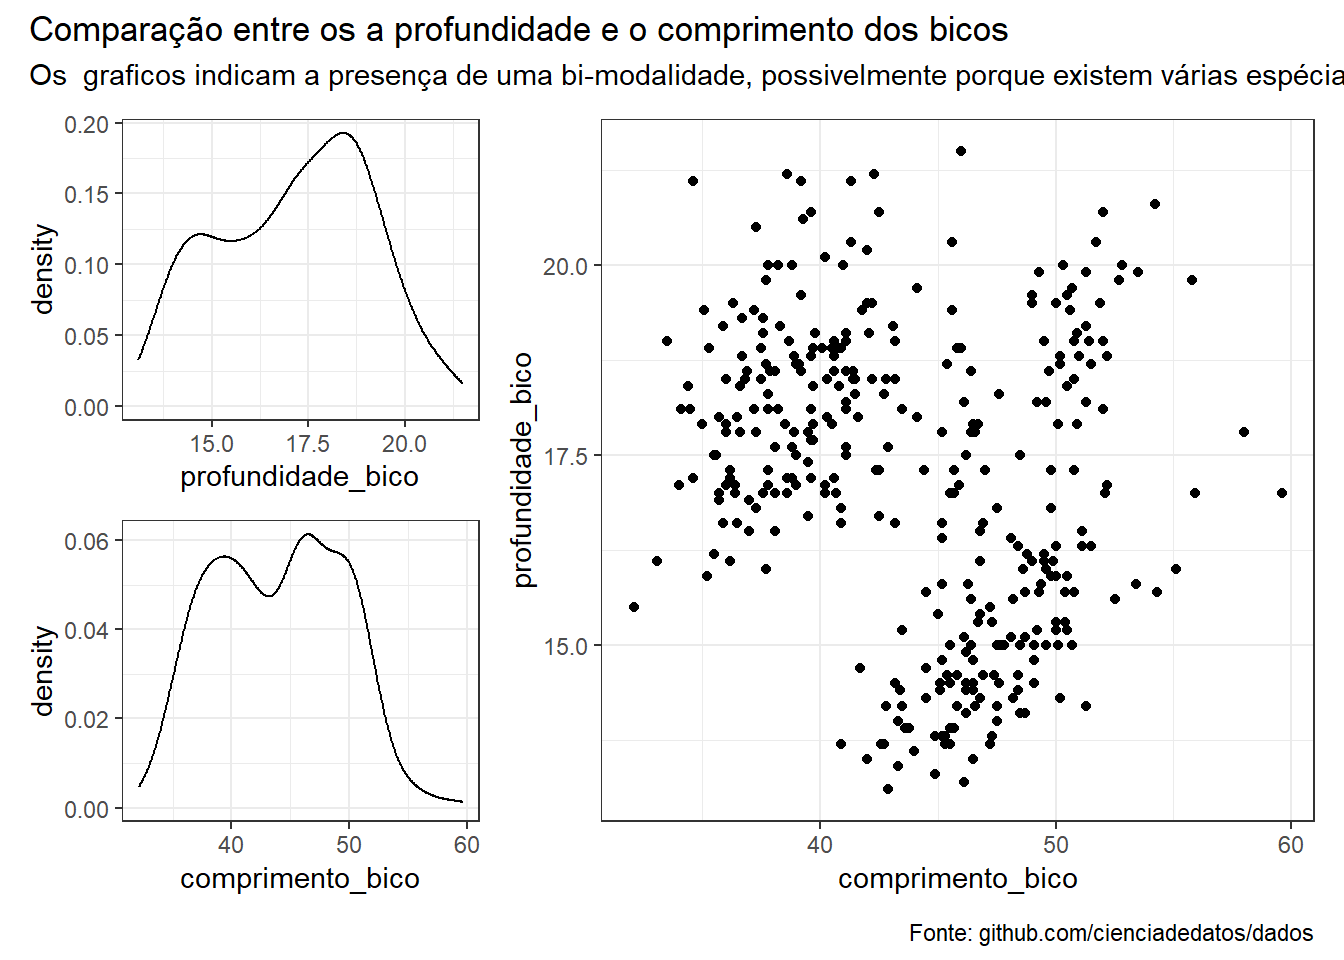
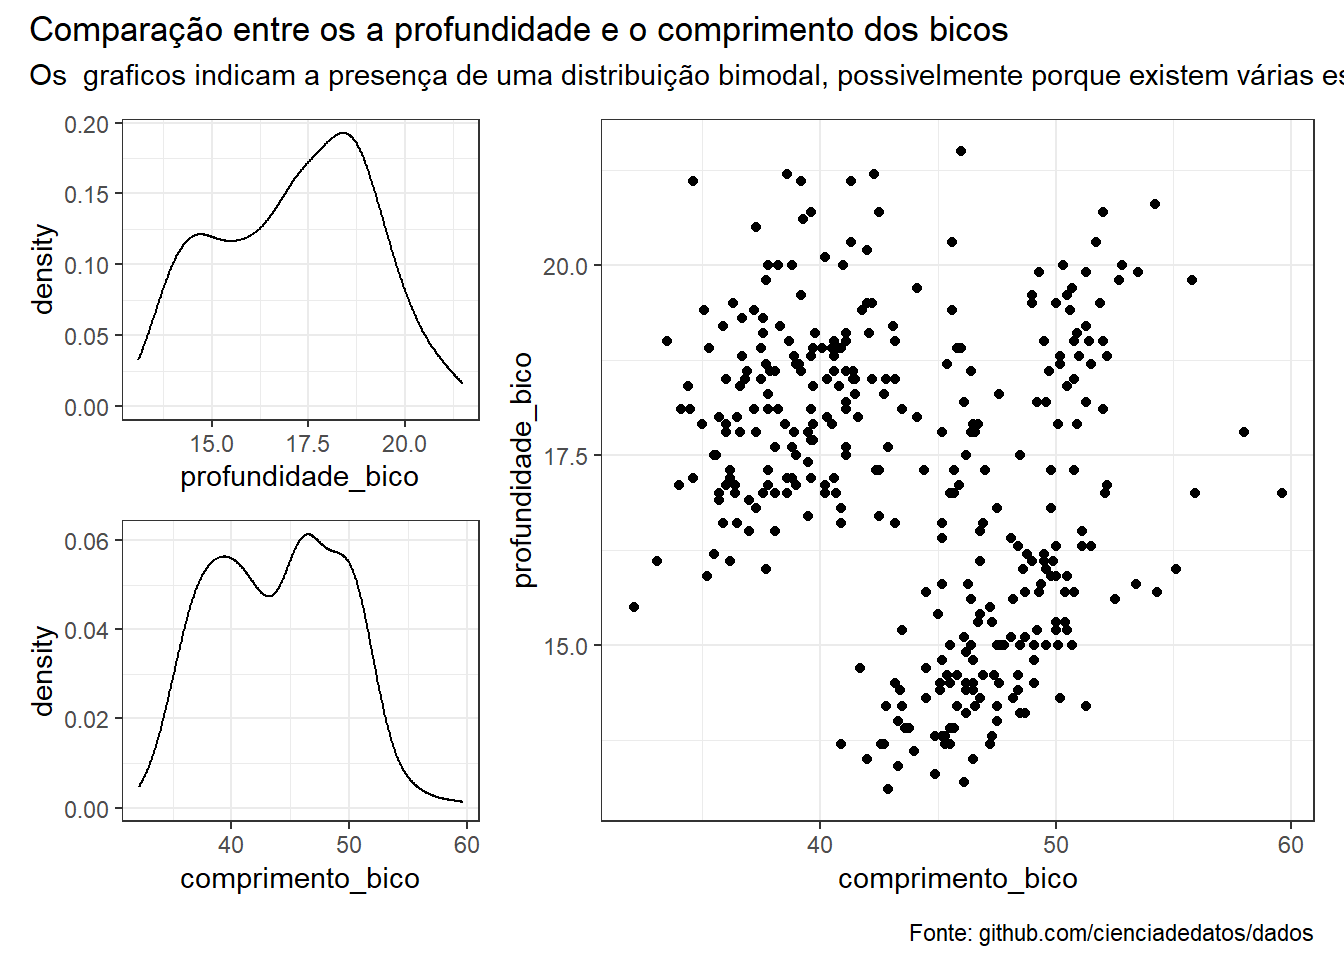
alterando typos

Changed region(s): [[0.4062, 0.0625, 1.0, 0.0938]]

diff --git a/content/posts/2021-05-19-patchwork.html b/content/posts/2021-05-19-patchwork.html
@@ -12,7 +12,7 @@ draft: false
 <script src="/rmarkdown-libs/header-attrs/header-attrs.js"></script>
 
 
-<p>Você provavelmente já sabe que o pacote <code>ggplot2</code> é uma baita ferramenta para construção de gráficos, mas você sabia que também é possível construir composições com vários gráficos sem nenhuma dificuldade? Essa é exatamente a função do pacote <code>patchwork</code> e hoje nós vamos conversar um pouco sobre essa que é uma das expressões mais importantes do pacote <code>ggplot2</code>.</p>
+<p>Você provavelmente já sabe que o pacote <code>ggplot2</code> é uma super ferramenta para construção de gráficos, mas você sabia que também é possível construir composições com vários gráficos sem nenhuma dificuldade? Essa é exatamente a função do pacote <code>patchwork</code> e hoje nós vamos conversar um pouco sobre essa que é uma das expressões mais importantes do pacote <code>ggplot2</code>.</p>
 <div id="ideia-geral" class="section level1">
 <h1>Ideia geral</h1>
 <p>O pacote <code>patchwork</code> parte de vários objetos <code>ggplot2</code>, nomeados por exemplo como <code>g1</code>, <code>g2</code>, <code>g3</code>, e nos fornece ferramentas para declarar de que forma esses gráficos serão posicionados em uma figura maior. Veja o exemplo abaixo em que colocamos três figuras lado a lado:</p>
@@ -39,55 +39,31 @@ g3 &lt;- dados::pinguins %&gt;%
 # aqui usamos esse operador &#39;+&#39; (que também poderia ser `|`), que fica disponível
 # quando carregamos o pacote 
 g1 + g2 + g3</code></pre>
-<pre><code>## Warning: Removed 2 rows containing missing values (geom_point).</code></pre>
-<pre><code>## Warning: Removed 2 rows containing non-finite values (stat_density).
-
-## Warning: Removed 2 rows containing non-finite values (stat_density).</code></pre>
 <p><img src="/posts/2021-05-19-patchwork_files/figure-html/unnamed-chunk-1-1.png" width="672" /></p>
 <p>Nesse nosso exemplo, utilizamos o operador <code>+</code> para colocar os gráficos lado a lado, ou seja, para criar colunas novas. Se o nosso objetivo fosse criar linhas, precisaríamos usar o operador <code>/</code>, que normalmente representa divisões no contexto aritmético. Essa escolha por parte de quem desenvolveu o pacote se dá pelo fato dos divisores (o que vem à esquerda do operador de divisão) serem posicionados na parte inferior das frações. Veja o exemplo abaixo:</p>
 <pre class="r"><code># codigo usando o pacote patchwork
 # aqui usamos esse operador &#39;/&#39;, que fica disponível
 # quando carregamos o pacote
 g1 / g2 / g3</code></pre>
-<pre><code>## Warning: Removed 2 rows containing missing values (geom_point).</code></pre>
-<pre><code>## Warning: Removed 2 rows containing non-finite values (stat_density).
-
-## Warning: Removed 2 rows containing non-finite values (stat_density).</code></pre>
 <p><img src="/posts/2021-05-19-patchwork_files/figure-html/unnamed-chunk-2-1.png" width="672" /></p>
 <p>O verdadeiro poder do pacote <code>patchwork</code> se revela quando misturamos essas duas operações e <code>(</code>s <code>)</code>s para organizar nosso código:</p>
 <pre class="r"><code># codigo usando o pacote patchwork
 # aqui usamos esse operador &#39;/&#39;, que fica disponível
 # quando carregamos o pacote
 (g1 + g2) / g3</code></pre>
-<pre><code>## Warning: Removed 2 rows containing missing values (geom_point).</code></pre>
-<pre><code>## Warning: Removed 2 rows containing non-finite values (stat_density).
-
-## Warning: Removed 2 rows containing non-finite values (stat_density).</code></pre>
 <p><img src="/posts/2021-05-19-patchwork_files/figure-html/unnamed-chunk-3-1.png" width="672" /></p>
 <pre class="r"><code># exemplo mais maluco, podemos misturar quantos gráficos a gente quiser e do jeito que a gente quiser:
 (g1+((g1 + g2) / g3))/g3</code></pre>
-<pre><code>## Warning: Removed 2 rows containing missing values (geom_point).
-
-## Warning: Removed 2 rows containing missing values (geom_point).</code></pre>
-<pre><code>## Warning: Removed 2 rows containing non-finite values (stat_density).
-
-## Warning: Removed 2 rows containing non-finite values (stat_density).
-
-## Warning: Removed 2 rows containing non-finite values (stat_density).</code></pre>
 <p><img src="/posts/2021-05-19-patchwork_files/figure-html/unnamed-chunk-4-1.png" width="672" /></p>
 </div>
 <div id="incluindo-elementos-que-não-são-gráficos-o-pacote-gridextra" class="section level1">
 <h1>Incluindo elementos que não são gráficos: o pacote <code>gridExtra</code></h1>
-<p>A lógica geral do pacote <code>patchwork</code> também funciona com outros tipos de objetos, como textos e tabelas. Entretanto, as operações que vimos até agora só funcionam se estivermos misturando gráficos do <code>ggplot2</code> ou <code>grob</code>s oriuindos dos pacotes <code>grid</code> e <code>gridExtra</code>. No exemplo abaixo, podemos ver como incluir tabelas e textos usando as funções <code>gridExtra::tableGrob</code> e <code>gridExtra::textGrob</code></p>
+<p>A lógica geral do pacote <code>patchwork</code> também funciona com outros tipos de objetos, como textos e tabelas. Entretanto, as operações que vimos até agora só funcionam se estivermos misturando gráficos do <code>ggplot2</code> ou <code>grob</code>s oriundos dos pacotes <code>grid</code> e <code>gridExtra</code>. No exemplo abaixo, podemos ver como incluir tabelas e textos usando as funções <code>gridExtra::tableGrob</code> e <code>gridExtra::textGrob</code></p>
 <pre class="r"><code># Exemplo com gráfico
 # primeira linha
 (g1 + grid::textGrob(&quot;Todos os gráficos indicam que está\nrolando uma parad bi-modal.&quot;))/
 # segunda linha
 (g2+g3)</code></pre>
-<pre><code>## Warning: Removed 2 rows containing missing values (geom_point).</code></pre>
-<pre><code>## Warning: Removed 2 rows containing non-finite values (stat_density).
-
-## Warning: Removed 2 rows containing non-finite values (stat_density).</code></pre>
 <p><img src="/posts/2021-05-19-patchwork_files/figure-html/unnamed-chunk-5-1.png" width="672" /></p>
 <pre class="r"><code>tabela &lt;- dados::pinguins %&gt;% 
   dplyr::summarise(
@@ -101,10 +77,6 @@ g1 / g2 / g3</code></pre>
 (g1 + gridExtra::tableGrob(tabela, rows = c(&quot;&quot;, &quot;&quot;)))/
 # segunda linha
 (g2+g3)</code></pre>
-<pre><code>## Warning: Removed 2 rows containing missing values (geom_point).</code></pre>
-<pre><code>## Warning: Removed 2 rows containing non-finite values (stat_density).
-
-## Warning: Removed 2 rows containing non-finite values (stat_density).</code></pre>
 <p><img src="/posts/2021-05-19-patchwork_files/figure-html/unnamed-chunk-6-1.png" width="672" /></p>
 </div>
 <div id="modificando-a-composicao" class="section level1">
@@ -123,16 +95,12 @@ g1 / g2 / g3</code></pre>
 # 
 plot_annotation(
   title = &quot;Comparação entre os a profundidade e o comprimento dos bicos&quot;,
-  subtitle = &quot;Os  graficos indicam a presença de uma bi-modalidade, possivelmente porque existem várias espécias na base.&quot;,
+  subtitle = &quot;Os  graficos indicam a presença de uma distribuição bimodal, possivelmente porque existem várias espécies na base.&quot;,
   caption = &quot;Fonte: github.com/cienciadedatos/dados&quot;
 )) &amp;
 # trocando os temas para branco. o operador `&amp;` garante que o tema será aplicado
 # a todos os sub-plots
 theme_bw() </code></pre>
-<pre><code>## Warning: Removed 2 rows containing non-finite values (stat_density).
-
-## Warning: Removed 2 rows containing non-finite values (stat_density).</code></pre>
-<pre><code>## Warning: Removed 2 rows containing missing values (geom_point).</code></pre>
 <p><img src="/posts/2021-05-19-patchwork_files/figure-html/unnamed-chunk-7-1.png" width="672" /></p>
 </div>
 <div id="considerações-finais" class="section level1">
